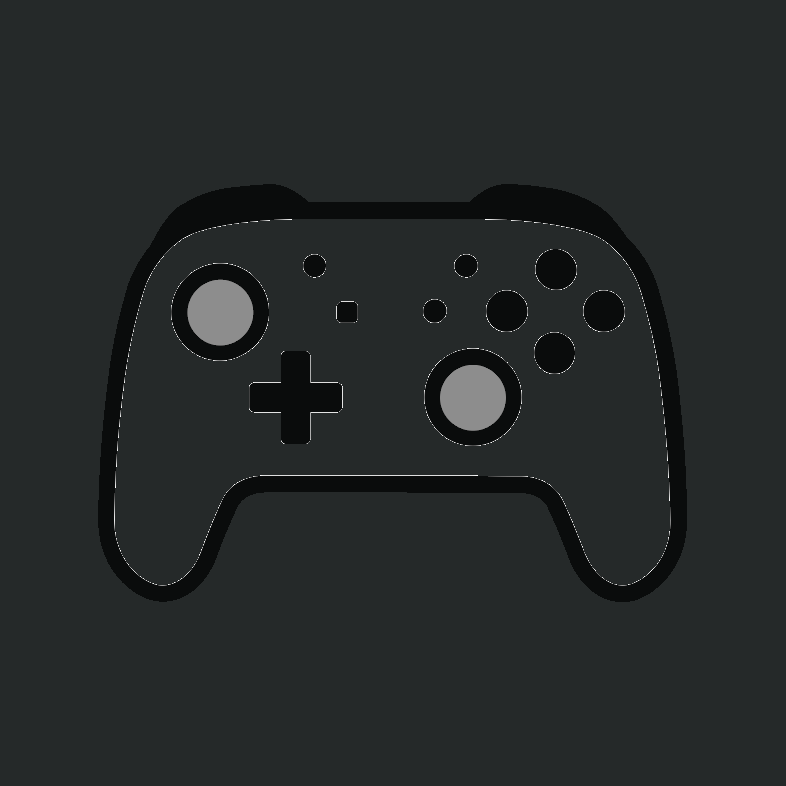
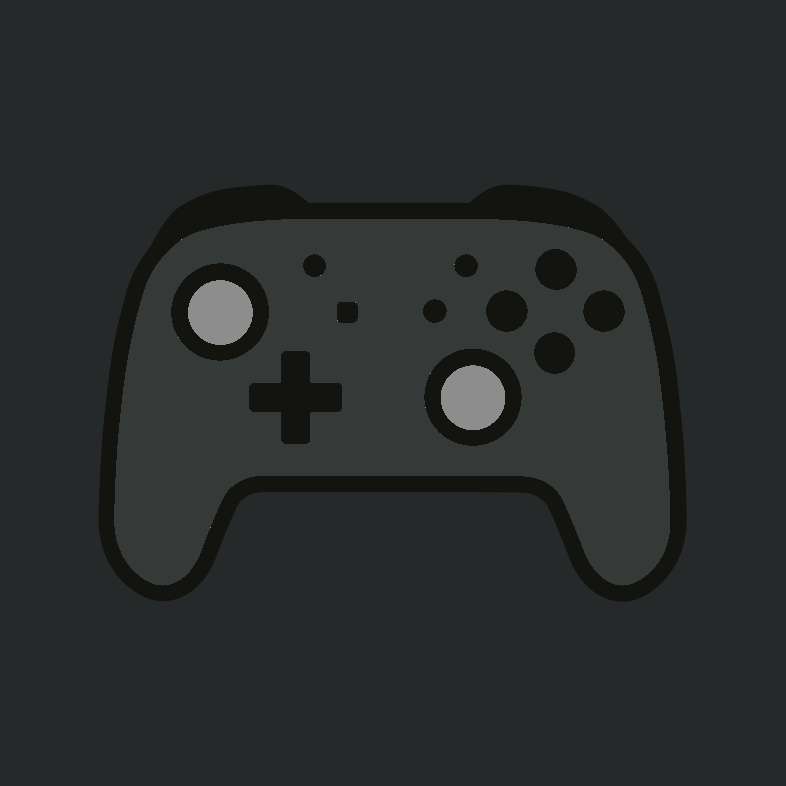
fix：清理按键映射底图亮边

diff --git a/tools/prepare-controller-bg.py b/tools/prepare-controller-bg.py
@@ -1,0 +1,42 @@
+"""Build the dark mapping-window controller art from the supplied source PNG.
+
+The source drawing is a white controller on a transparent canvas.  A direct
+threshold conversion leaves white anti-aliased pixels around the shell, which
+show up as broken bright lines on the dark UI.  Re-colour the source by tone
+and composite it onto the same neutral canvas used by the mapping board.
+"""
+
+from pathlib import Path
+
+import cv2
+import numpy as np
+
+
+ROOT = Path(__file__).resolve().parents[1]
+source = cv2.imread(str(ROOT / "src/assets/controller_bg.png"), cv2.IMREAD_UNCHANGED)
+if source is None or source.shape[-1] != 4:
+    raise RuntimeError("controller_bg.png must be an RGBA PNG")
+
+background = np.array([41, 41, 37], dtype=np.float32)  # BGR #252929
+shell = np.array([16, 20, 19], dtype=np.float32)       # BGR #131413
+body = np.array([57, 58, 53], dtype=np.float32)        # BGR #353a39
+stick = np.array([141, 141, 141], dtype=np.float32)
+
+rgb = source[:, :, :3].astype(np.float32)
+alpha = source[:, :, 3:4].astype(np.float32) / 255.0
+tone = rgb.mean(axis=2)
+
+# The two stick caps are intentionally lighter than the shell.  Their source
+# fill is a stable mid-grey, so preserve that visual cue after recolouring.
+stick_mask = np.all(source[:, :, :3] == 121, axis=2) & (alpha[:, :, 0] > 0.98)
+
+# The source's anti-aliased white-on-black edge contains a handful of bright
+# pixels.  A two-tone mask removes those isolated highlights; the browser adds
+# its own smooth edge when this image is scaled in the dialog.
+mapped = np.where((tone >= 128.0)[:, :, None], body, shell)
+mapped[stick_mask] = stick
+
+canvas = np.broadcast_to(background, source[:, :, :3].shape).copy()
+canvas = canvas * (1.0 - alpha) + mapped * alpha
+output = np.dstack([np.clip(canvas, 0, 255).astype(np.uint8), np.full(source.shape[:2], 255, np.uint8)])
+cv2.imwrite(str(ROOT / "src/assets/controller_bg_dark.png"), output)
